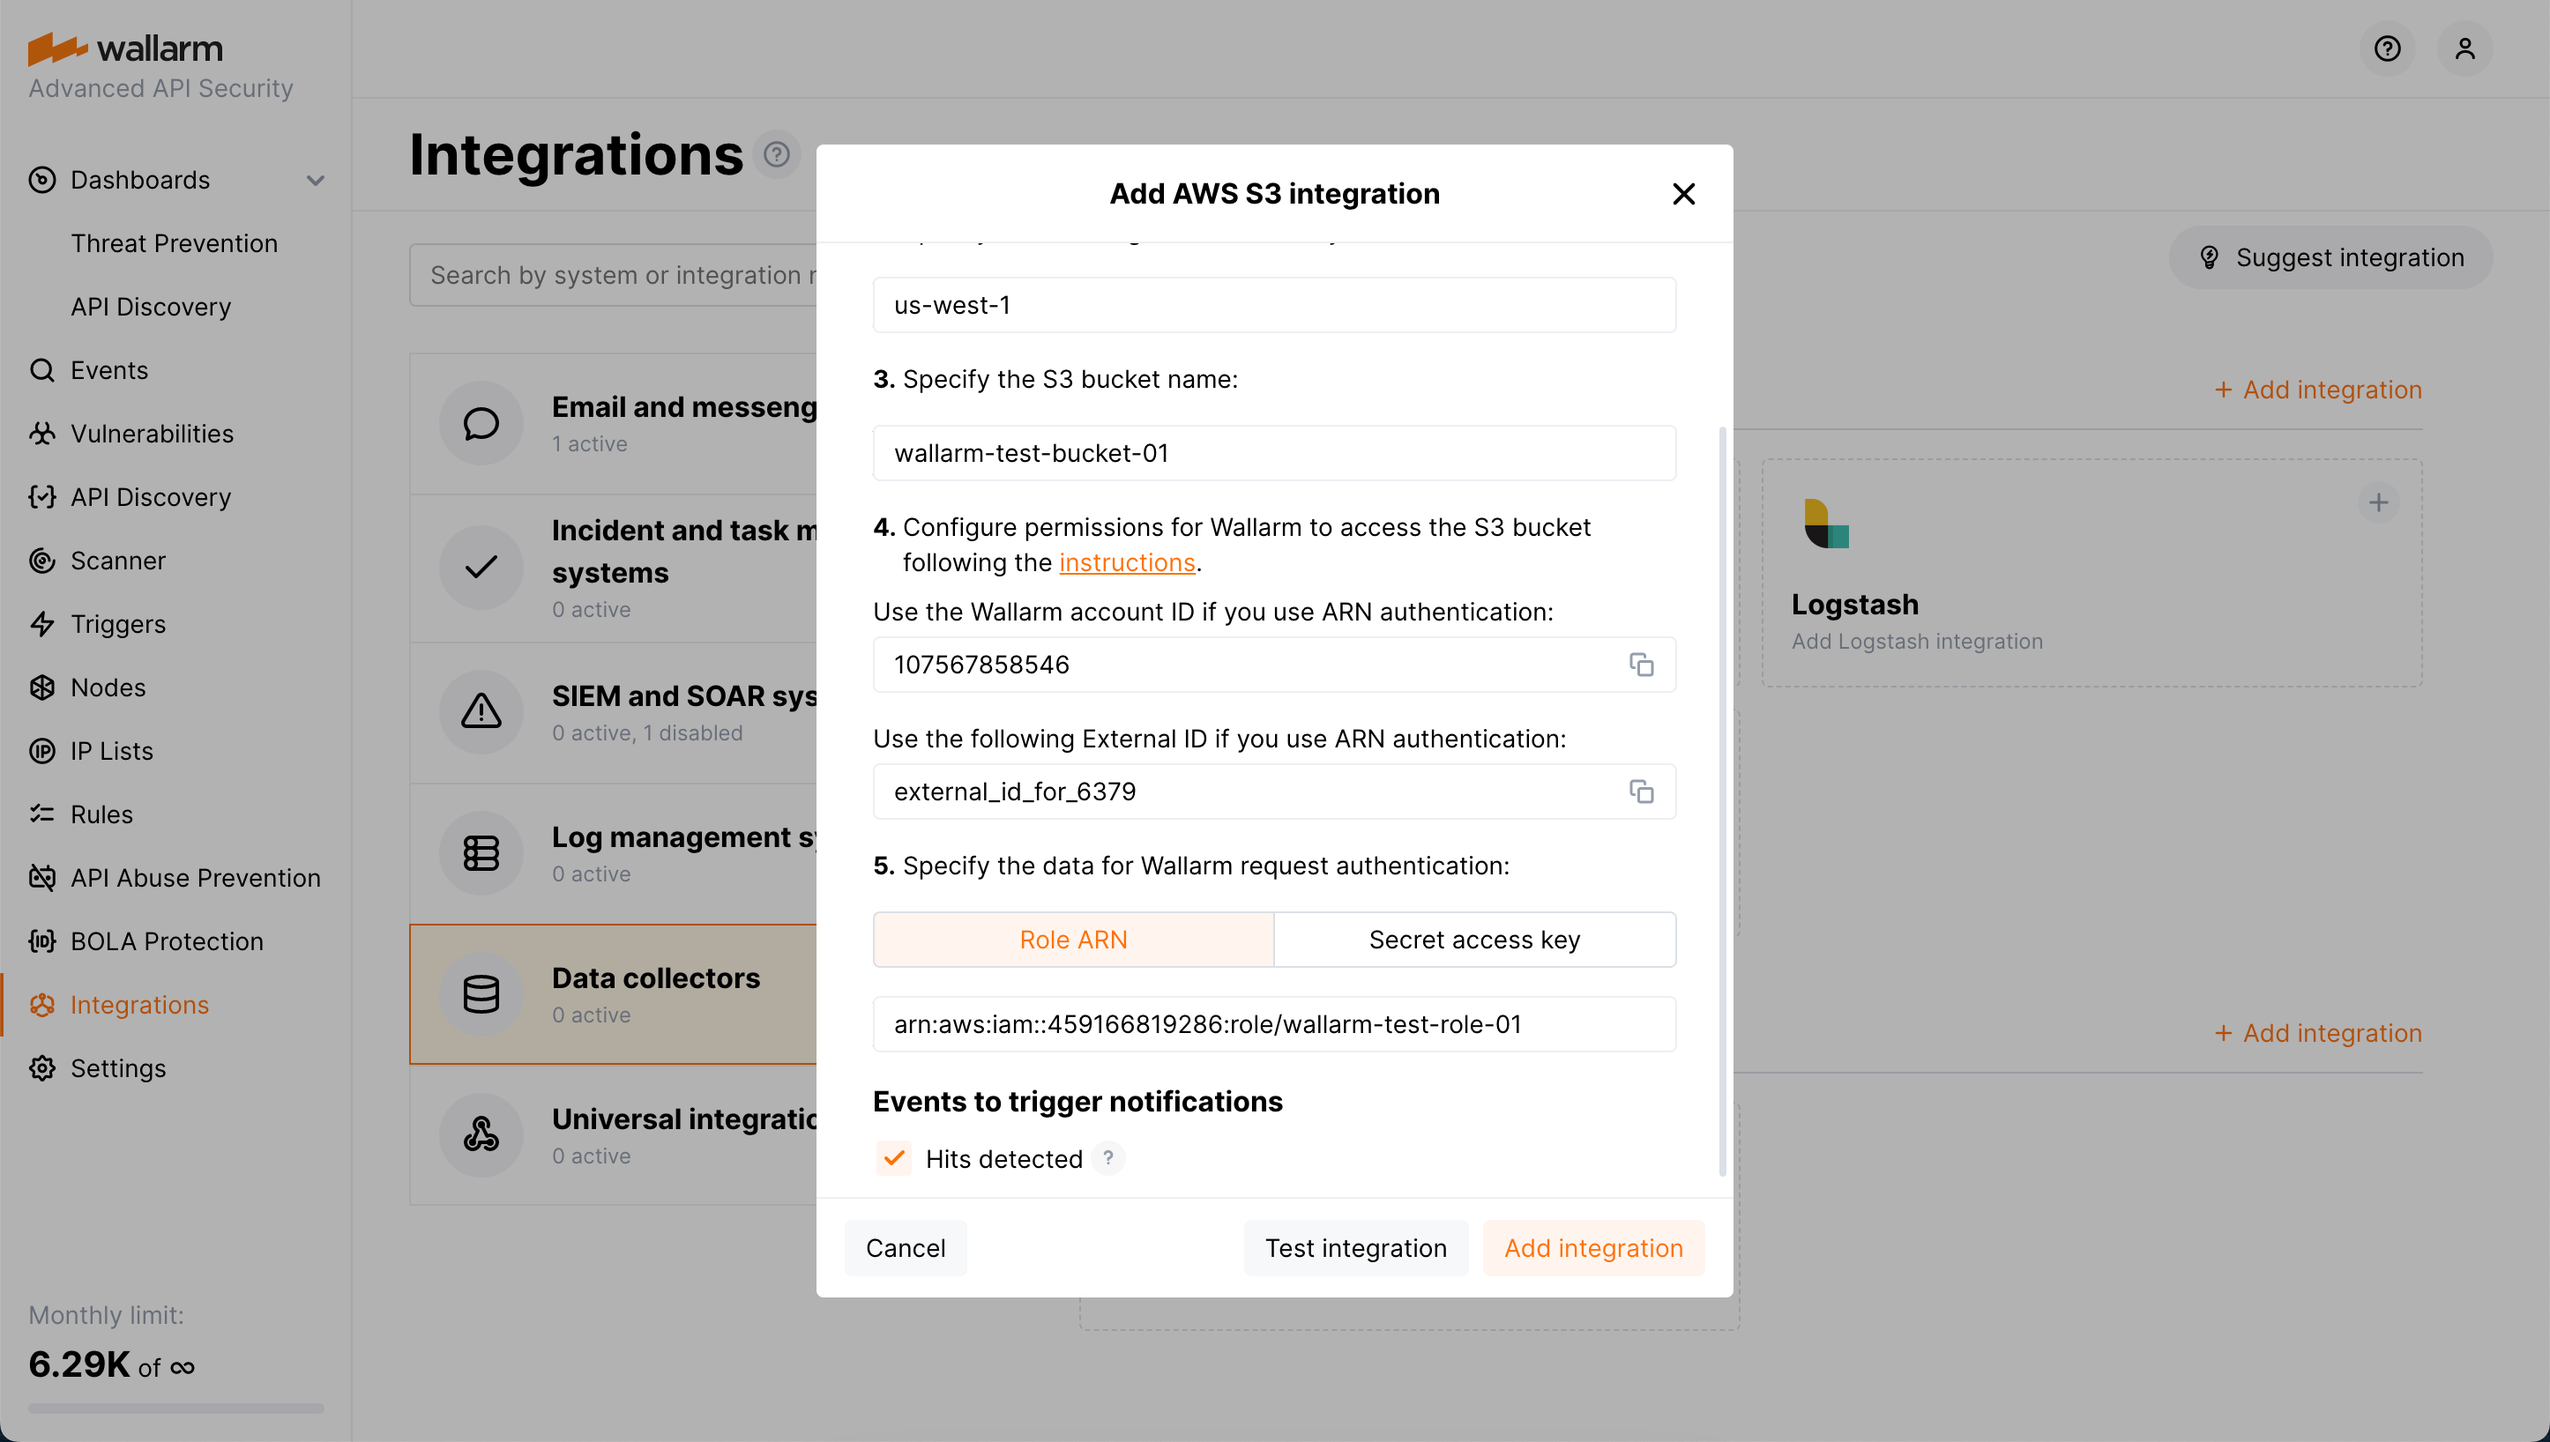
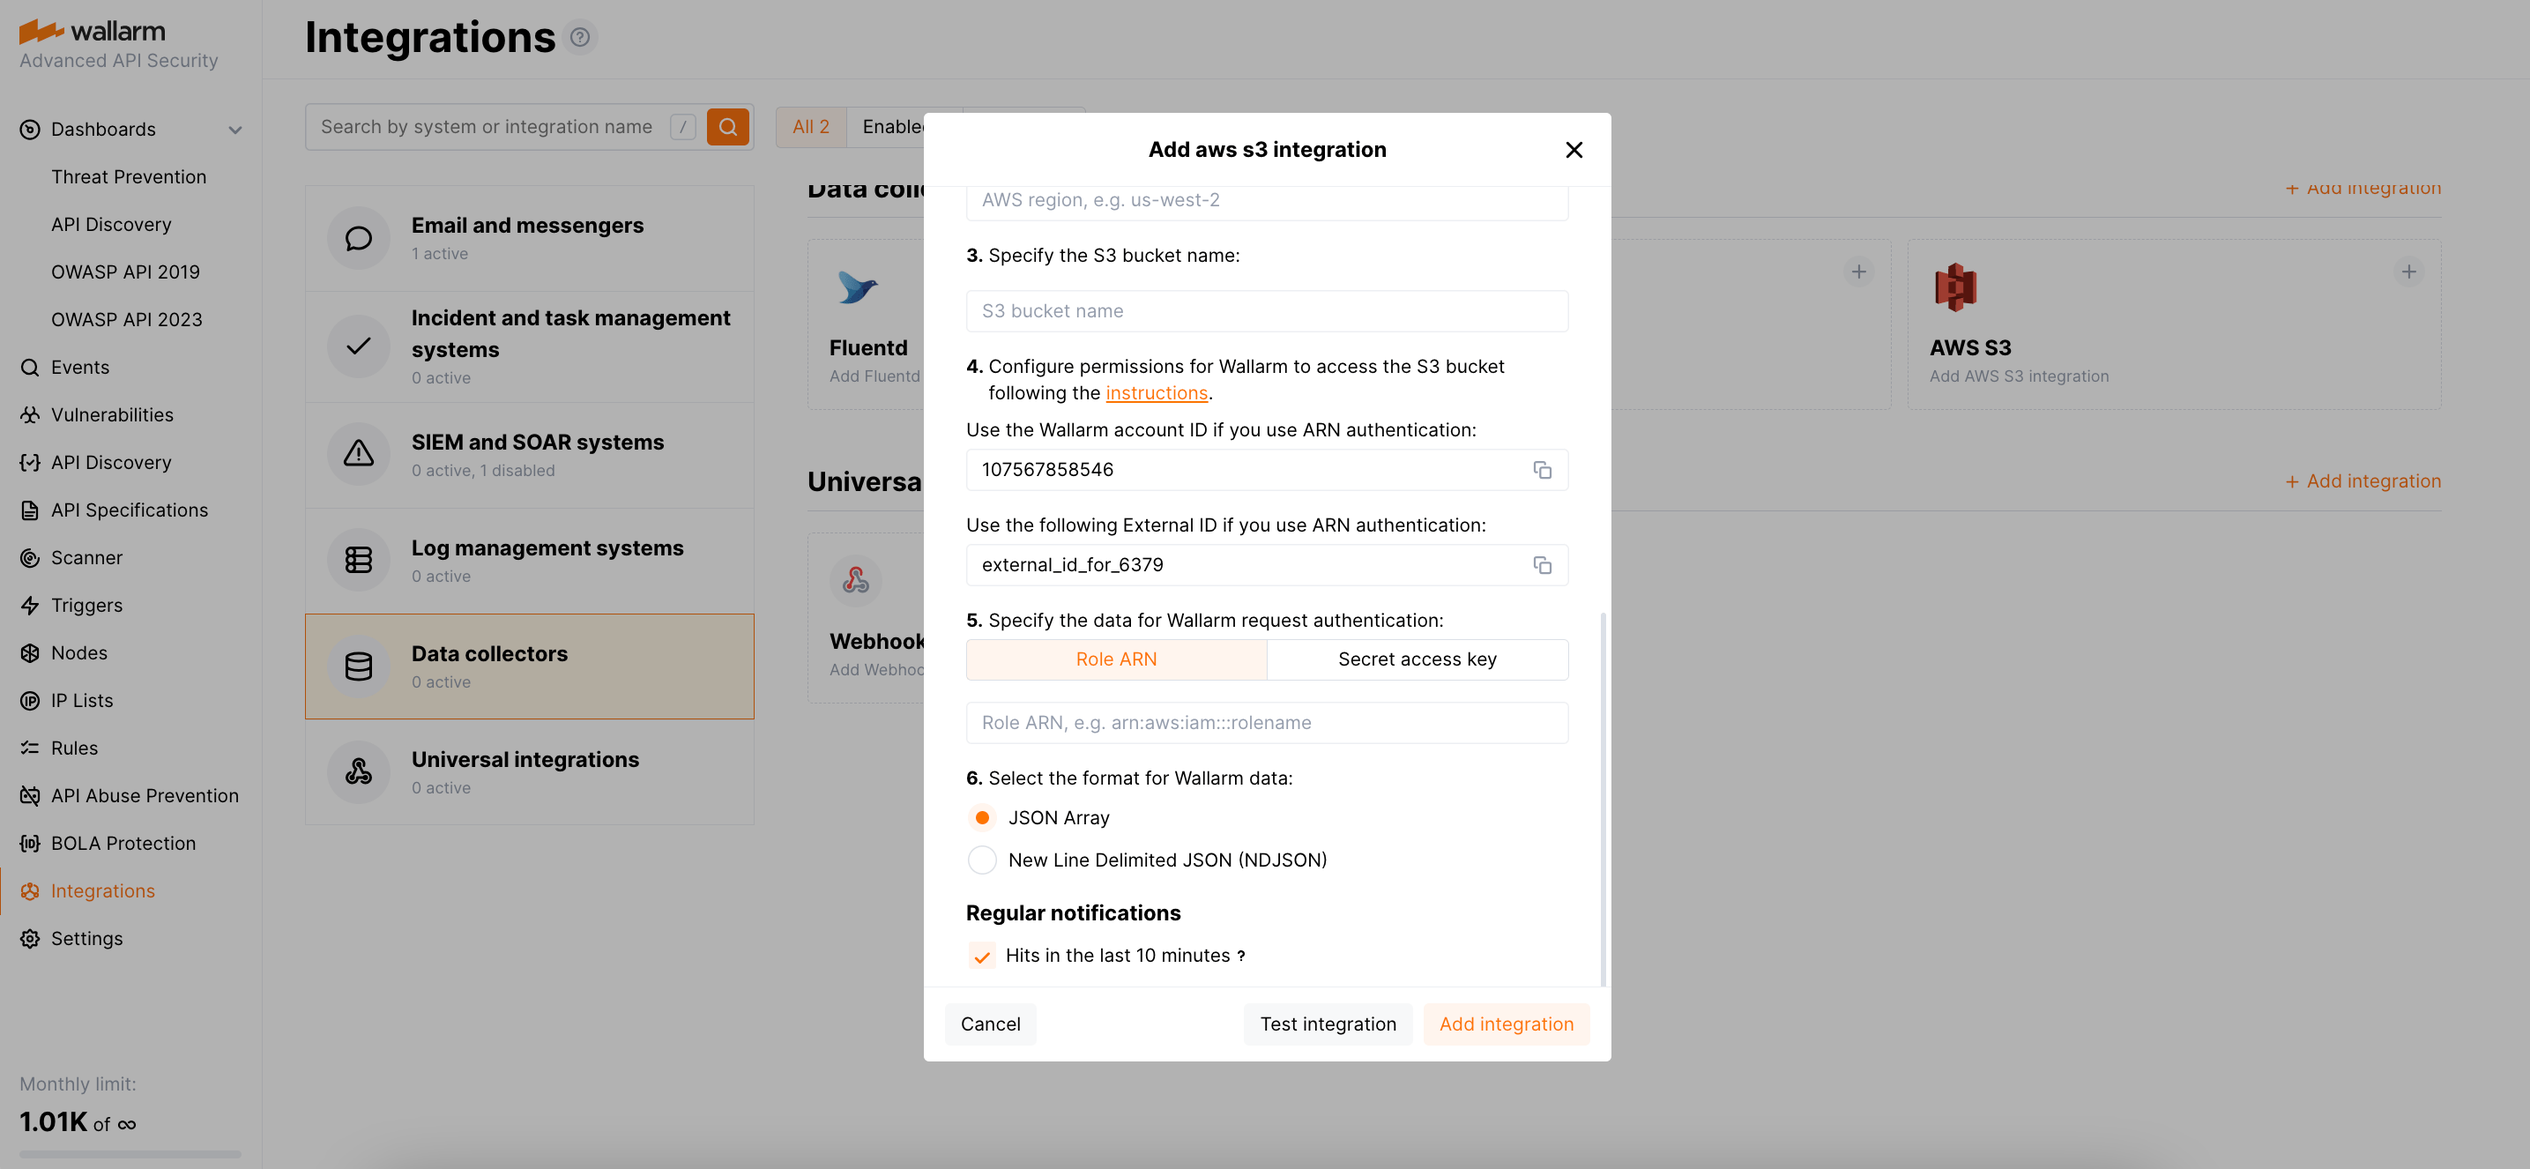
DOCS-2263 describe the data format selector in aws s3 integration

diff --git a/docs/latest/user-guides/settings/integrations/amazon-s3.md b/docs/latest/user-guides/settings/integrations/amazon-s3.md
@@ -20,7 +20,7 @@ Data fields for each hit:
 * `point`
 * `tags`
 
-Files placed to your S3 bucket are named as `wallarm_hits_{timestamp}.json`.
+Files will be saved to your S3 bucket as `wallarm_hits_{timestamp}.json`, with formatting options of JSON Array or New Line Delimited JSON (NDJSON).
 
 ## Setting up integration
 
@@ -83,78 +83,84 @@ To set up an Amazon S3 integration:
         1. Enter your S3 bucket name.
         1. At the **Secret access key** tab, enter access key ID and the key itself.
 
+1. Select the format for Wallarm data: either a JSON Array or a New Line Delimited JSON (NDJSON).
 1. Make sure in the **Regular notifications** section, hits in the last 10 minutes are selected to be sent. If not chosen, data will not be sent to S3 bucket.
 1. Click **Test integration** to check configuration correctness, availability of the Wallarm Cloud, and the notification format.
 
     For Amazon S3, integration test sends the JSON file with data into your bucket. Here is the example of the JSON file with the data on hits detected in the last 10 minutes:
 
-    ```json
-    [
-    {
-        "time":"1687241470",
-        "request_id":"d2a900a6efac7a7c893a00903205071a",
-        "ip":"127.0.0.1",
-        "datacenter":"unknown",
-        "tor":"none",
-        "remote_country":null,
-        "application_id":[
-            -1
-        ],
-        "domain":"localhost",
-        "method":"GET",
-        "uri":"/etc/passwd",
-        "protocol":"none",
-        "status_code":499,
-        "attack_type":"ptrav",
-        "block_status":"monitored",
-        "payload":[
-            "/etc/passwd"
-        ],
-        "point":[
-            "uri"
-        ],
-        "tags":{
-            "lom_id":7,
-            "libproton_version":"4.4.11",
-            "brute_counter":"c188cd2baa2cefb3f3688cb4008a649e",
-            "wallarm_mode":"monitoring",
-            "final_wallarm_mode":"monitoring"
+    === "JSON Array"
+        ```json
+        [
+        {
+            "time":"1687241470",
+            "request_id":"d2a900a6efac7a7c893a00903205071a",
+            "ip":"127.0.0.1",
+            "datacenter":"unknown",
+            "tor":"none",
+            "remote_country":null,
+            "application_id":[
+                -1
+            ],
+            "domain":"localhost",
+            "method":"GET",
+            "uri":"/etc/passwd",
+            "protocol":"none",
+            "status_code":499,
+            "attack_type":"ptrav",
+            "block_status":"monitored",
+            "payload":[
+                "/etc/passwd"
+            ],
+            "point":[
+                "uri"
+            ],
+            "tags":{
+                "lom_id":7,
+                "libproton_version":"4.4.11",
+                "brute_counter":"c188cd2baa2cefb3f3688cb4008a649e",
+                "wallarm_mode":"monitoring",
+                "final_wallarm_mode":"monitoring"
+            }
+        },
+        {
+            "time":"1687241475",
+            "request_id":"b457fccec9c66cdb07eab7228b34eca6",
+            "ip":"127.0.0.1",
+            "datacenter":"unknown",
+            "tor":"none",
+            "remote_country":null,
+            "application_id":[
+                -1
+            ],
+            "domain":"localhost",
+            "method":"GET",
+            "uri":"/etc/passwd",
+            "protocol":"none",
+            "status_code":499,
+            "attack_type":"ptrav",
+            "block_status":"monitored",
+            "payload":[
+                "/etc/passwd"
+            ],
+            "point":[
+                "uri"
+            ],
+            "tags":{
+                "lom_id":7,
+                "libproton_version":"4.4.11",
+                "brute_counter":"c188cd2baa2cefb3f3688cb4008a649e",
+                "wallarm_mode":"monitoring",
+                "final_wallarm_mode":"monitoring"
+            }
         }
-    },
-    {
-        "time":"1687241475",
-        "request_id":"b457fccec9c66cdb07eab7228b34eca6",
-        "ip":"127.0.0.1",
-        "datacenter":"unknown",
-        "tor":"none",
-        "remote_country":null,
-        "application_id":[
-            -1
-        ],
-        "domain":"localhost",
-        "method":"GET",
-        "uri":"/etc/passwd",
-        "protocol":"none",
-        "status_code":499,
-        "attack_type":"ptrav",
-        "block_status":"monitored",
-        "payload":[
-            "/etc/passwd"
-        ],
-        "point":[
-            "uri"
-        ],
-        "tags":{
-            "lom_id":7,
-            "libproton_version":"4.4.11",
-            "brute_counter":"c188cd2baa2cefb3f3688cb4008a649e",
-            "wallarm_mode":"monitoring",
-            "final_wallarm_mode":"monitoring"
-        }
-    }
-    ]
-    ```
-
+        ]
+        ```
+    === "New Line Delimited JSON (NDJSON)"
+        ```json
+        {"time":"1687241470","request_id":"d2a900a6efac7a7c893a00903205071a","ip":"127.0.0.1","datacenter":"unknown","tor":"none","remote_country":null,"application_id":[-1],"domain":"localhost","method":"GET","uri":"/etc/passwd","protocol":"none","status_code":499,"attack_type":"ptrav","block_status":"monitored","payload":["/etc/passwd"],"point":["uri"],"tags":{"lom_id":7,"libproton_version":"4.4.11","brute_counter":"c188cd2baa2cefb3f3688cb4008a649e","wallarm_mode":"monitoring","final_wallarm_mode":"monitoring"}}
+        {"time":"1687241475","request_id":"b457fccec9c66cdb07eab7228b34eca6","ip":"127.0.0.1","datacenter":"unknown","tor":"none","remote_country":null,"application_id":[-1],"domain":"localhost","method":"GET","uri":"/etc/passwd","protocol":"none","status_code":499,"attack_type":"ptrav","block_status":"monitored","payload":["/etc/passwd"],"point":["uri"],"tags":{"lom_id":7,"libproton_version":"4.4.11","brute_counter":"c188cd2baa2cefb3f3688cb4008a649e","wallarm_mode":"monitoring","final_wallarm_mode":"monitoring"}}
+        ```
 1. Click **Add integration**.
 
 To control the amount of stored data, it is recommended to set up an automatic deletion of old objects from your Amazon S3 bucket as described [here](https://docs.aws.amazon.com/AmazonS3/latest/userguide/object-lifecycle-mgmt.html).

diff --git a/docs/4.4/user-guides/settings/integrations/amazon-s3.md b/docs/4.4/user-guides/settings/integrations/amazon-s3.md
@@ -20,7 +20,7 @@ Data fields for each hit:
 * `point`
 * `tags`
 
-Files placed to your S3 bucket are named as `wallarm_hits_{timestamp}.json`.
+Files will be saved to your S3 bucket as `wallarm_hits_{timestamp}.json`, with formatting options of JSON Array or New Line Delimited JSON (NDJSON).
 
 ## Setting up integration
 
@@ -83,6 +83,7 @@ To set up an Amazon S3 integration:
         1. Enter your S3 bucket name.
         1. At the **Secret access key** tab, enter access key ID and the key itself.
 
+1. Select the format for Wallarm data: either a JSON Array or a New Line Delimited JSON (NDJSON).
 1. Make sure in the **Regular notifications** section, hits in the last 10 minutes are selected to be sent. If not chosen, data will not be sent to S3 bucket.
 1. [Test the integration](#testing-integration) and make sure the settings are correct.
 1. Click **Add integration**.
@@ -95,72 +96,78 @@ Integration testing allows checking configuration correctness, availability of t
 
 For Amazon S3, integration test sends the JSON file with data into your bucket. Here is the example of the JSON file with the data on hits detected in the last 10 minutes:
 
-```json
-[
-{
-    "time":"1687241470",
-    "request_id":"d2a900a6efac7a7c893a00903205071a",
-    "ip":"127.0.0.1",
-    "datacenter":"unknown",
-    "tor":"none",
-    "remote_country":null,
-    "application_id":[
-      -1
-    ],
-    "domain":"localhost",
-    "method":"GET",
-    "uri":"/etc/passwd",
-    "protocol":"none",
-    "status_code":499,
-    "attack_type":"ptrav",
-    "block_status":"monitored",
-    "payload":[
-        "/etc/passwd"
-    ],
-    "point":[
-        "uri"
-    ],
-    "tags":{
-        "lom_id":7,
-        "libproton_version":"4.4.11",
-        "brute_counter":"c188cd2baa2cefb3f3688cb4008a649e",
-        "wallarm_mode":"monitoring",
-        "final_wallarm_mode":"monitoring"
+=== "JSON Array"
+    ```json
+    [
+    {
+        "time":"1687241470",
+        "request_id":"d2a900a6efac7a7c893a00903205071a",
+        "ip":"127.0.0.1",
+        "datacenter":"unknown",
+        "tor":"none",
+        "remote_country":null,
+        "application_id":[
+            -1
+        ],
+        "domain":"localhost",
+        "method":"GET",
+        "uri":"/etc/passwd",
+        "protocol":"none",
+        "status_code":499,
+        "attack_type":"ptrav",
+        "block_status":"monitored",
+        "payload":[
+            "/etc/passwd"
+        ],
+        "point":[
+            "uri"
+        ],
+        "tags":{
+            "lom_id":7,
+            "libproton_version":"4.4.11",
+            "brute_counter":"c188cd2baa2cefb3f3688cb4008a649e",
+            "wallarm_mode":"monitoring",
+            "final_wallarm_mode":"monitoring"
+        }
+    },
+    {
+        "time":"1687241475",
+        "request_id":"b457fccec9c66cdb07eab7228b34eca6",
+        "ip":"127.0.0.1",
+        "datacenter":"unknown",
+        "tor":"none",
+        "remote_country":null,
+        "application_id":[
+            -1
+        ],
+        "domain":"localhost",
+        "method":"GET",
+        "uri":"/etc/passwd",
+        "protocol":"none",
+        "status_code":499,
+        "attack_type":"ptrav",
+        "block_status":"monitored",
+        "payload":[
+            "/etc/passwd"
+        ],
+        "point":[
+            "uri"
+        ],
+        "tags":{
+            "lom_id":7,
+            "libproton_version":"4.4.11",
+            "brute_counter":"c188cd2baa2cefb3f3688cb4008a649e",
+            "wallarm_mode":"monitoring",
+            "final_wallarm_mode":"monitoring"
+        }
     }
-},
-{
-    "time":"1687241475",
-    "request_id":"b457fccec9c66cdb07eab7228b34eca6",
-    "ip":"127.0.0.1",
-    "datacenter":"unknown",
-    "tor":"none",
-    "remote_country":null,
-    "application_id":[
-      -1
-    ],
-    "domain":"localhost",
-    "method":"GET",
-    "uri":"/etc/passwd",
-    "protocol":"none",
-    "status_code":499,
-    "attack_type":"ptrav",
-    "block_status":"monitored",
-    "payload":[
-        "/etc/passwd"
-    ],
-    "point":[
-        "uri"
-    ],
-    "tags":{
-        "lom_id":7,
-        "libproton_version":"4.4.11",
-        "brute_counter":"c188cd2baa2cefb3f3688cb4008a649e",
-        "wallarm_mode":"monitoring",
-        "final_wallarm_mode":"monitoring"
-    }
-}
-]
-```
+    ]
+    ```
+=== "New Line Delimited JSON (NDJSON)"
+    ```json
+    {"time":"1687241470","request_id":"d2a900a6efac7a7c893a00903205071a","ip":"127.0.0.1","datacenter":"unknown","tor":"none","remote_country":null,"application_id":[-1],"domain":"localhost","method":"GET","uri":"/etc/passwd","protocol":"none","status_code":499,"attack_type":"ptrav","block_status":"monitored","payload":["/etc/passwd"],"point":["uri"],"tags":{"lom_id":7,"libproton_version":"4.4.11","brute_counter":"c188cd2baa2cefb3f3688cb4008a649e","wallarm_mode":"monitoring","final_wallarm_mode":"monitoring"}}
+    {"time":"1687241475","request_id":"b457fccec9c66cdb07eab7228b34eca6","ip":"127.0.0.1","datacenter":"unknown","tor":"none","remote_country":null,"application_id":[-1],"domain":"localhost","method":"GET","uri":"/etc/passwd","protocol":"none","status_code":499,"attack_type":"ptrav","block_status":"monitored","payload":["/etc/passwd"],"point":["uri"],"tags":{"lom_id":7,"libproton_version":"4.4.11","brute_counter":"c188cd2baa2cefb3f3688cb4008a649e","wallarm_mode":"monitoring","final_wallarm_mode":"monitoring"}}
+    ```
 
 ## Updating integration
 
